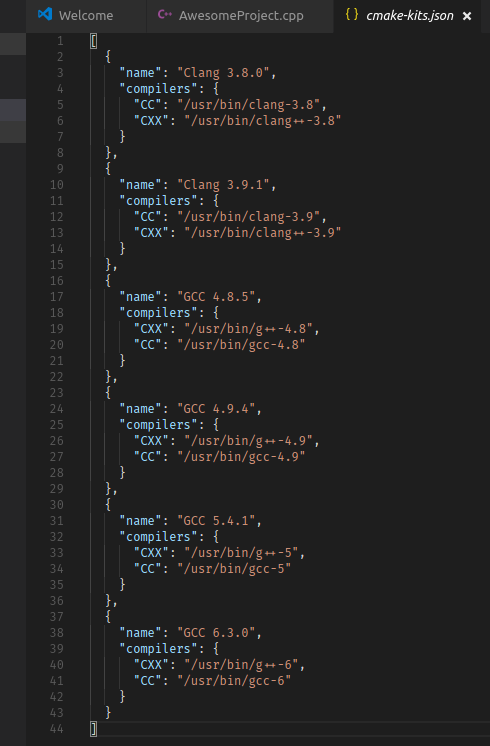
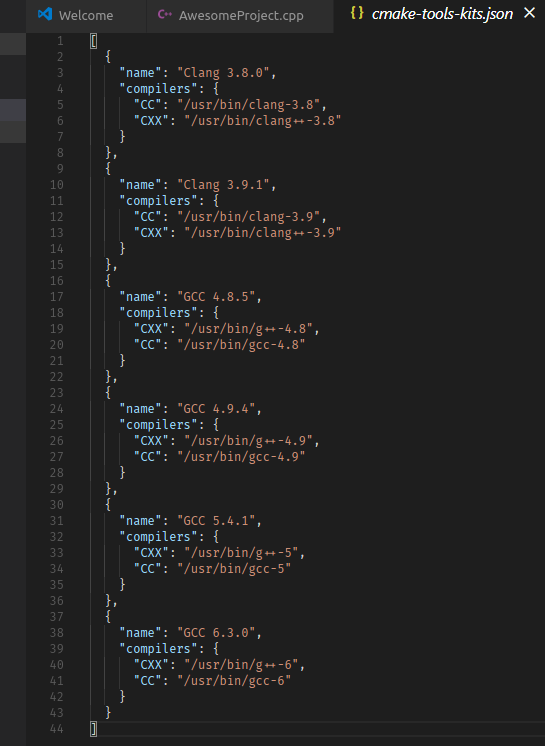
Update kits documentation (#2772)

diff --git a/docs/kits.md b/docs/kits.md
@@ -21,7 +21,7 @@ When the CMake Tools extension runs for the first time, it will [scan for kits](
 
 A user-local kit is a kit that is available to a particular user for all projects open with CMake Tools.
 
-The user-local list of kits is stored in the `cmake-kits.json` file, which you can edit by invoking **Edit CMake Kits** from the command palette:
+The user-local list of kits is stored in the `cmake-tools-kits.json` file, which you can edit by invoking **Edit User-Local CMake Kits** from the command palette:
 
 ![Example cmake_kits_json file](images/cmake_kits_json.png)
 
@@ -56,20 +56,20 @@ Update [user-local kits](#user-local-kits) by running **Scan for Kits** from the
 
 **3. Save results to the user-local kits file**
 
-- The [user-local kit](#user-local-kits) `cmake-kits.json` file is updated with the new kit information.
+- The [user-local kit](#user-local-kits) `cmake-tooks-kits.json` file is updated with the new kit information.
 
 > **Warning:**
-> The name of each kit is generated from the kit compiler and version information. Kits with the same name will be overwritten. To prevent custom kits from being overwritten, give them unique names. CMake Tools will not delete entries from `cmake-kits.json`. It only adds and updates existing ones.
+> The name of each kit is generated from the kit compiler and version information. Kits with the same name will be overwritten. To prevent custom kits from being overwritten, give them unique names. CMake Tools will not delete entries from `cmake-tools-kits.json`. It only adds and updates existing ones.
 
 ## Kit options
 
-CMake defines different options that can be specified for each kit in their definition in `cmake-kits.json`, and these options can be mixed-and-matched as needed. For example, a single kit may request a Visual Studio environment, while specifying `clang-cl` as a compiler.
+CMake defines different options that can be specified for each kit in their definition in `cmake-tools-kits.json` (user-local) or `.vscode/cmake-kits.json` (project-level), and these options can be mixed-and-matched as needed. For example, a single kit may request a Visual Studio environment, while specifying `clang-cl` as a compiler.
 
 See [Configure CMake](configure.md) for more information about how kits are applied during configuration.
 
 ### Specify a compiler
 
-To specify a compiler, list the path to the compiler in the `cmake-kits.json` file.
+To specify a compiler, list the path to the compiler in the `cmake-tools-kits.json` or `.vscode/cmake-kits.json` file.
 
 The most common CMake languages are `C` and `CXX`, and CMake Tools has built-in support for finding these. However, any language can be specified:
 
